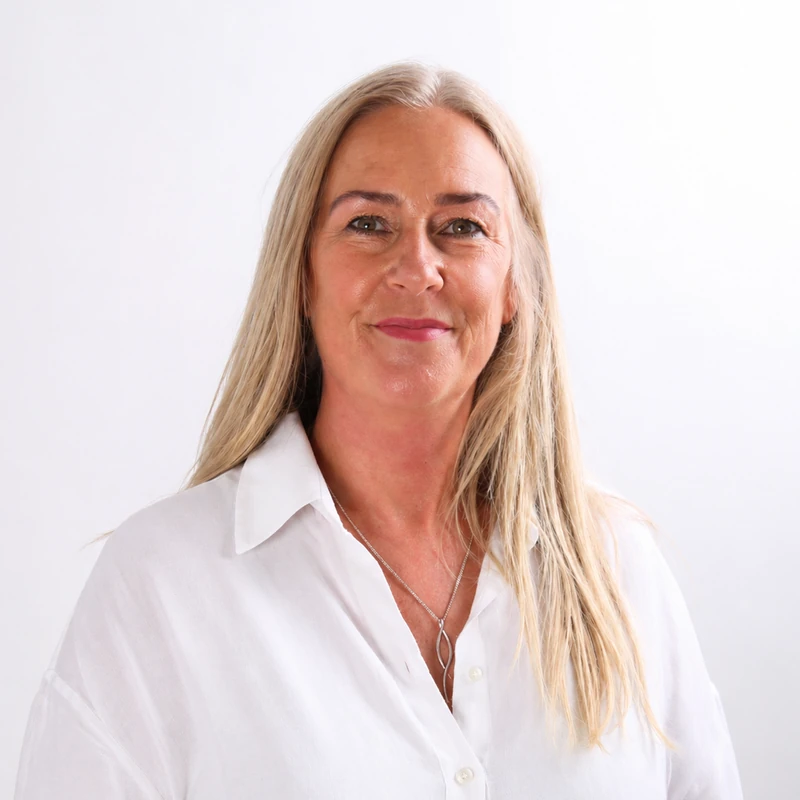
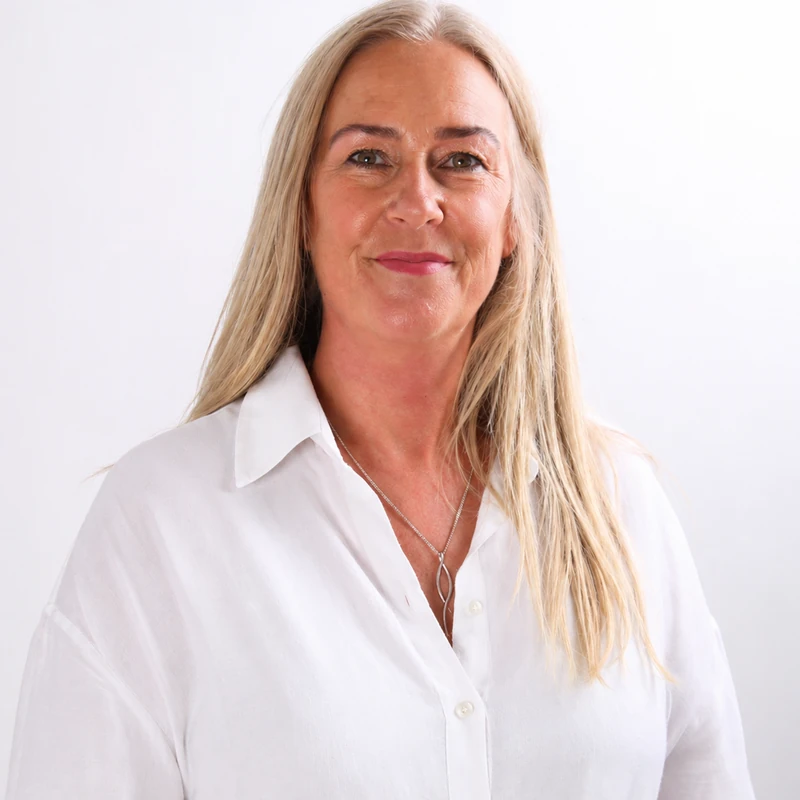
Headshot tighter, typewriter cursor matches text height, centred text
- Headshot: bump source y-offset 110 -> 200 so Ruth's hairline touches
  the top of the circle and her face dominates the frame
- Typewriter cursor: replace fixed translate-y-[2px] with align-baseline
  and h-[0.92em] so the cursor scales with the surrounding text and
  aligns to the baseline at any font size (mobile + desktop)
- About page "ABOUT ME" prose: add text-center so the bio paragraphs
  sit centred instead of left-aligned
- Home step cards: restructure flex-row icon-left layout to stacked
  vertical with icon centred above text, text centred below

Changed region(s): [[0.0625, 0.0, 0.9062, 1.0], [0.4688, 0.8125, 0.5, 0.8438]]

diff --git a/app/page.tsx b/app/page.tsx
@@ -497,13 +497,13 @@ export default function HomePage() {
                   <li
                     className={`h-full rounded-xl2 p-5 shadow-soft sm:p-6 ${card}`}
                   >
-                    <div className="flex items-start gap-4">
+                    <div className="flex flex-col items-center gap-3 text-center">
                       <div
                         className={`grid h-11 w-11 shrink-0 place-items-center rounded-xl2 text-navy ${iconBg}`}
                       >
                         <StepIcon name={step.icon} className="h-5 w-5" />
                       </div>
-                      <div className="flex-1">
+                      <div>
                         <p className="text-[12px] font-semibold uppercase tracking-wider text-navy/55">
                           Step {i + 1}
                         </p>

diff --git a/app/about/page.tsx b/app/about/page.tsx
@@ -72,7 +72,7 @@ export default function AboutPage() {
       <Section tone="cream" spacing="tight">
         <Container>
           <FadeIn>
-            <div className="mx-auto max-w-prose space-y-5 text-[16px] leading-relaxed text-navy/85 sm:text-[17px]">
+            <div className="mx-auto max-w-prose space-y-5 text-center text-[16px] leading-relaxed text-navy/85 sm:text-[17px]">
               <p>
                 I am fully qualified as a humanistic counsellor. I am registered
                 with the BACP (British Association of Counselling and

diff --git a/components/Typewriter.tsx b/components/Typewriter.tsx
@@ -36,7 +36,7 @@ export default function Typewriter({ text, speed = 55, className }: Props) {
       {showCursor && (
         <span
           aria-hidden="true"
-          className="ml-[2px] inline-block h-[0.85em] w-[3px] translate-y-[2px] animate-blink bg-current"
+          className="ml-[3px] inline-block h-[0.92em] w-[3px] align-baseline bg-current animate-blink"
         />
       )}
     </span>
